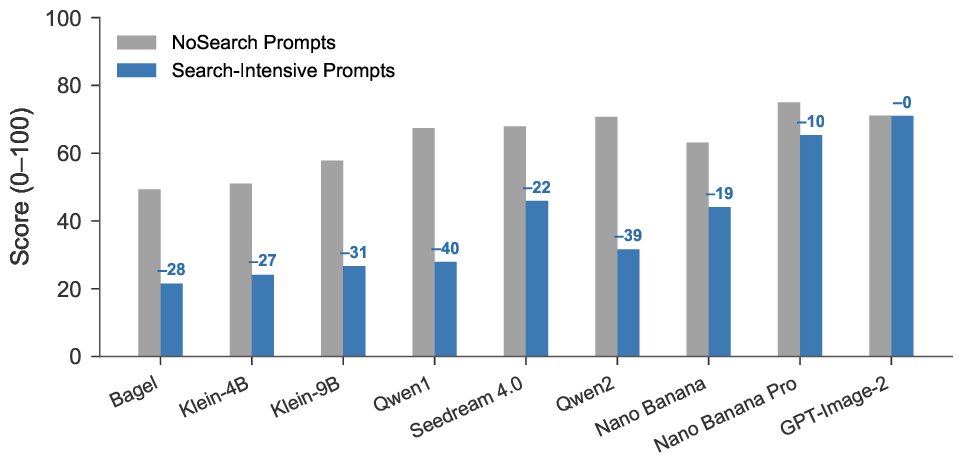
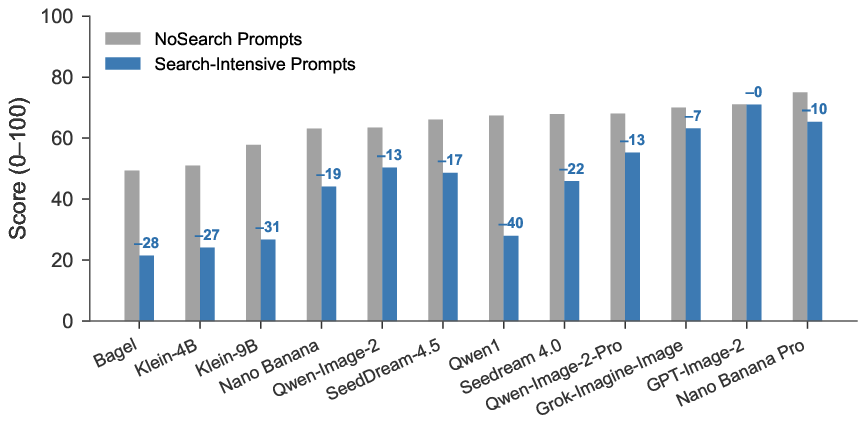
Update benchmark tables and figures

diff --git a/index.html b/index.html
@@ -378,8 +378,13 @@ body.modal-open{overflow:hidden}
   <p>To surface it, we built <strong>SearchGen-Bench</strong>: 751 test prompts scored by a 9-component judge on a 0–100 scale, with separate dimensions for <span class="em">knowledge</span> and for <span class="em">rendering</span>. The split is the whole point. When Flux.2-Klein-9B scores 24.2 on knowledge checklists but stays high on image quality, the diagnosis is unambiguous — it can draw, it just doesn't know.</p>
 
   <figure class="fig">
-    <img src="assets/figures/b1.png" alt="Per-generator quality on NoSearch vs Search-Intensive strata across nine generators.">
+    <img src="assets/figures/b1.png" alt="Per-generator quality on NoSearch vs Search-Intensive strata across twelve generators.">
     <figcaption><b>Generators score well on prompts they can answer from memory (gray).</b> On prompts that require external knowledge (orange), every open generator collapses — up to a 40-point drop — while commercial systems with built-in search hold. The bottleneck is missing knowledge, not rendering skill.</figcaption>
+  </figure>
+
+  <figure class="fig">
+    <img src="assets/figures/searchgenbench_arena_style.png" alt="Overall SearchGen-Bench ranking of twelve image generators on the full 751-prompt evaluation.">
+    <figcaption><b>Overall SearchGen-Bench ranking.</b> GPT-Image-2 leads the full 751-prompt evaluation, followed by Nano Banana Pro and Grok-Imagine-Image. Scores use the canonical 10-component physical-plausibility judge.</figcaption>
   </figure>
 
   <div class="benchmark-head">
@@ -405,25 +410,30 @@ body.modal-open{overflow:hidden}
       </thead>
       <tbody>
         <tr class="stratum memory"><th colspan="11" scope="rowgroup">NoSearch <span class="count">parametric knowledge is sufficient</span></th></tr>
-        <tr><td class="model">Bagel</td><td class="overall">49.3</td><td>52.3</td><td>49.1</td><td>39.2</td><td>58.0</td><td>18.4</td><td>48.3</td><td>65.3</td><td>60.4</td><td>34.8</td></tr>
-        <tr><td class="model">Flux.2-Klein-4B</td><td class="overall">51.0</td><td>54.7</td><td>51.8</td><td>39.3</td><td>61.3</td><td>13.2</td><td>49.5</td><td>67.2</td><td>63.5</td><td>32.6</td></tr>
-        <tr><td class="model">Flux.2-Klein-9B</td><td class="overall">57.8</td><td>63.8</td><td>59.8</td><td>51.3</td><td>63.8</td><td>31.3</td><td>52.5</td><td>72.3</td><td>66.7</td><td>43.7</td></tr>
+        <tr><td class="model">Bagel</td><td class="overall">14.0</td><td>14.3</td><td>13.2</td><td>10.7</td><td>16.5</td><td>1.0</td><td>14.0</td><td>19.3</td><td>17.9</td><td>9.4</td></tr>
+        <tr><td class="model">Flux.2-Klein-9B</td><td class="overall">42.1</td><td>47.2</td><td>43.2</td><td>37.2</td><td>46.7</td><td>16.0</td><td>38.3</td><td>52.3</td><td>48.5</td><td>29.8</td></tr>
         <tr><td class="model">Qwen-Image</td><td class="overall">67.4</td><td>74.8</td><td>70.8</td><td>62.8</td><td>68.3</td><td>63.0</td><td>61.0</td><td>76.8</td><td>73.8</td><td>56.7</td></tr>
-        <tr><td class="model">Qwen-Image-2</td><td class="overall">70.7</td><td>78.7</td><td>73.8</td><td>68.4</td><td>70.2</td><td>71.7</td><td>60.8</td><td>80.3</td><td>75.6</td><td>60.0</td></tr>
+        <tr><td class="model">Qwen-Image-2</td><td class="overall">63.4</td><td>75.4</td><td>73.2</td><td>66.3</td><td>69.3</td><td>17.5</td><td>61.2</td><td>80.8</td><td>72.0</td><td>59.4</td></tr>
+        <tr><td class="model">Qwen-Image-2-Pro</td><td class="overall">68.0</td><td>75.5</td><td>69.9</td><td>63.2</td><td>70.0</td><td>76.9</td><td>58.5</td><td>77.2</td><td>71.5</td><td>60.1</td></tr>
         <tr><td class="model">SeedDream-4.0</td><td class="overall">67.9</td><td>74.9</td><td>70.6</td><td>61.7</td><td>69.5</td><td>71.1</td><td>59.7</td><td>80.3</td><td>73.9</td><td>56.7</td></tr>
+        <tr><td class="model">SeedDream-4.5</td><td class="overall">66.1</td><td>75.9</td><td>71.0</td><td>64.5</td><td>66.2</td><td>68.0</td><td>52.5</td><td>76.0</td><td>71.4</td><td>55.8</td></tr>
         <tr><td class="model">Nano Banana</td><td class="overall">63.1</td><td>71.1</td><td>67.5</td><td>59.7</td><td>66.3</td><td>42.8</td><td>56.5</td><td>76.3</td><td>68.5</td><td>53.8</td></tr>
         <tr><td class="model">Nano Banana Pro</td><td class="overall">75.0</td><td>82.8</td><td>78.1</td><td>72.8</td><td>71.5</td><td>85.9</td><td>65.0</td><td>83.3</td><td>78.2</td><td>67.8</td></tr>
+        <tr><td class="model">Grok-Imagine-Image</td><td class="overall">70.0</td><td>78.7</td><td>74.2</td><td>69.2</td><td>69.1</td><td>71.2</td><td>59.8</td><td>78.5</td><td>70.9</td><td>61.9</td></tr>
         <tr><td class="model">GPT-Image-2</td><td class="overall">71.1</td><td>78.6</td><td>75.6</td><td>70.8</td><td>69.0</td><td>67.7</td><td>60.8</td><td>77.7</td><td>73.9</td><td>64.3</td></tr>
         <tr class="stratum search"><th colspan="11" scope="rowgroup">Search-Intensive <span class="count">external knowledge is required</span></th></tr>
-        <tr><td class="model">Bagel</td><td class="overall">21.5</td><td>18.2</td><td>17.6</td><td>13.3</td><td>30.5</td><td>2.5</td><td>29.3</td><td>33.6</td><td>36.8</td><td>13.5</td></tr>
-        <tr><td class="model">Flux.2-Klein-4B</td><td class="overall">24.1</td><td>19.8</td><td>18.4</td><td>12.4</td><td>37.2</td><td>4.2</td><td>33.6</td><td>39.3</td><td>46.2</td><td>11.9</td></tr>
-        <tr><td class="model">Flux.2-Klein-9B</td><td class="overall">26.7</td><td>24.2</td><td>23.1</td><td>17.2</td><td>36.8</td><td>7.2</td><td>32.9</td><td>40.4</td><td>48.6</td><td>16.9</td></tr>
+        <tr><td class="model">Bagel</td><td class="overall">18.2</td><td>14.8</td><td>14.4</td><td>10.7</td><td>26.6</td><td>1.8</td><td>26.2</td><td>29.3</td><td>32.9</td><td>11.0</td></tr>
+        <tr><td class="model">Flux.2-Klein-4B</td><td class="overall">21.0</td><td>16.6</td><td>15.6</td><td>10.1</td><td>33.2</td><td>3.6</td><td>30.4</td><td>34.8</td><td>42.1</td><td>9.8</td></tr>
+        <tr><td class="model">Flux.2-Klein-9B</td><td class="overall">23.0</td><td>20.1</td><td>19.3</td><td>13.9</td><td>32.6</td><td>6.1</td><td>29.5</td><td>35.9</td><td>43.9</td><td>13.6</td></tr>
         <tr><td class="model">Qwen-Image</td><td class="overall">27.9</td><td>24.8</td><td>24.3</td><td>18.6</td><td>40.1</td><td>8.7</td><td>31.6</td><td>42.8</td><td>44.6</td><td>17.7</td></tr>
-        <tr><td class="model">Qwen-Image-2</td><td class="overall">31.6</td><td>28.5</td><td>27.1</td><td>22.1</td><td>42.2</td><td>12.7</td><td>36.3</td><td>45.5</td><td>48.2</td><td>21.0</td></tr>
+        <tr><td class="model">Qwen-Image-2</td><td class="overall">50.3</td><td>49.6</td><td>48.7</td><td>44.4</td><td>62.8</td><td>36.0</td><td>53.1</td><td>66.1</td><td>67.1</td><td>40.3</td></tr>
+        <tr><td class="model">Qwen-Image-2-Pro</td><td class="overall">55.2</td><td>53.1</td><td>51.8</td><td>47.9</td><td>66.4</td><td>55.5</td><td>54.8</td><td>70.1</td><td>71.8</td><td>43.8</td></tr>
         <tr><td class="model">Imagen3-Fast</td><td class="overall">14.1</td><td>9.7</td><td>10.0</td><td>6.9</td><td>22.2</td><td>1.4</td><td>21.4</td><td>23.2</td><td>23.7</td><td>7.0</td></tr>
         <tr><td class="model">SeedDream-4.0</td><td class="overall">45.9</td><td>44.2</td><td>43.6</td><td>38.5</td><td>57.0</td><td>35.9</td><td>47.1</td><td>58.7</td><td>64.0</td><td>35.1</td></tr>
+        <tr><td class="model">SeedDream-4.5</td><td class="overall">48.6</td><td>48.3</td><td>47.0</td><td>43.1</td><td>58.7</td><td>47.5</td><td>45.6</td><td>61.1</td><td>62.6</td><td>37.1</td></tr>
         <tr><td class="model">Nano Banana</td><td class="overall">44.1</td><td>41.0</td><td>40.4</td><td>36.0</td><td>57.1</td><td>28.0</td><td>47.4</td><td>61.5</td><td>65.5</td><td>33.2</td></tr>
         <tr><td class="model">Nano Banana Pro</td><td class="overall">65.3</td><td>64.4</td><td>63.1</td><td>60.7</td><td>71.4</td><td>65.0</td><td>62.0</td><td>75.9</td><td>78.5</td><td>58.3</td></tr>
+        <tr><td class="model">Grok-Imagine-Image</td><td class="overall">63.2</td><td>64.1</td><td>62.5</td><td>60.8</td><td>68.6</td><td>62.8</td><td>59.1</td><td>74.2</td><td>73.6</td><td>58.3</td></tr>
         <tr><td class="model">GPT-Image-2</td><td class="overall">71.0</td><td>71.2</td><td>70.1</td><td>69.2</td><td>75.1</td><td>75.9</td><td>64.7</td><td>80.4</td><td>77.3</td><td>66.0</td></tr>
       </tbody>
     </table>
@@ -445,6 +455,25 @@ body.modal-open{overflow:hidden}
   </div>
 
   <p>Search everything, blindly, and every generator gets <span class="em">worse</span> on prompts that never needed help. Qwen-Image-2 drops from <strong>70.7 to 60.4</strong> on the no-search stratum — a <strong>14.6% relative loss</strong> on prompts it already aced.</p>
+
+  <div class="tbl-wrap">
+    <table class="results">
+      <thead>
+        <tr><th class="cfg">Need Search?</th><th class="cfg">Generator</th><th>n</th><th>NoSearch</th><th>Reasoned</th><th>Blind</th></tr>
+      </thead>
+      <tbody>
+        <tr><td class="cfg" rowspan="3"><b>NoSearch</b></td><td class="cfg"><b>Qwen2</b></td><td>100</td><td>70.7</td><td>76.5</td><td>60.4</td></tr>
+        <tr><td class="cfg">Qwen1</td><td>99</td><td>67.5</td><td>75.0</td><td>59.5</td></tr>
+        <tr><td class="cfg">Klein-9B</td><td>58</td><td>57.9</td><td>66.4</td><td>52.3</td></tr>
+        <tr><td class="cfg" rowspan="3"><b>VisualSearch</b></td><td class="cfg"><b>Qwen2</b></td><td>384</td><td>37.2</td><td>49.1</td><td>45.3</td></tr>
+        <tr><td class="cfg">Qwen1</td><td>384</td><td>32.8</td><td>44.4</td><td>39.7</td></tr>
+        <tr><td class="cfg">Klein-9B</td><td>338</td><td>29.6</td><td>39.4</td><td>36.0</td></tr>
+        <tr><td class="cfg" rowspan="3"><b>TextualSearch</b></td><td class="cfg"><b>Qwen2</b></td><td>263</td><td>22.9</td><td>34.1</td><td>32.1</td></tr>
+        <tr><td class="cfg">Qwen1</td><td>263</td><td>20.5</td><td>28.5</td><td>25.3</td></tr>
+        <tr><td class="cfg">Klein-9B</td><td>264</td><td>18.9</td><td>26.6</td><td>24.0</td></tr>
+      </tbody>
+    </table>
+  </div>
   <p>Two distinct failures explain it. <strong>Concept corruption</strong>: search fires on something the model already knew, and the retrieved reference overrides correct internal knowledge — a <span class="em">gating</span> failure, searching when it shouldn't. <strong>Copy effect</strong>: a reference carries so much detail that the generator copies it wholesale instead of borrowing the one missing fact — a <span class="em">filtering</span> failure, keeping too much.</p>
 
   <div class="card-line o">The cure and the disease depend entirely on the patient. Search helps only when the generator is actually missing something.</div>
@@ -565,14 +594,14 @@ body.modal-open{overflow:hidden}
   <div class="tbl-wrap">
     <table class="results">
       <thead>
-        <tr><th class="cfg">Phase</th><th class="cfg">Config</th><th>NoSearch</th><th>Set I</th><th>Set II</th><th>Set III</th><th>Overall</th></tr>
+        <tr><th class="cfg">Phase</th><th class="cfg">Config</th><th>n</th><th>NoSearch</th><th>Easy</th><th>Medium</th><th>Hard</th><th>Overall</th></tr>
       </thead>
       <tbody>
-        <tr><td class="phase-lbl">Phase 0</td><td class="cfg">Gen-Agnostic (SFT-8B) + Klein-4B</td><td>54.6</td><td>28.9</td><td>29.2</td><td>21.2</td><td class="overall">26.4</td></tr>
-        <tr><td class="phase-lbl">Phase 1</td><td class="cfg">Gen-Agnostic (SFT-8B) + Klein-4B-DPO</td><td>54.0</td><td>31.8</td><td>31.1</td><td>24.7</td><td class="overall">29.2</td></tr>
-        <tr class="head-row"><td class="phase-lbl"><b>Phase 2</b></td><td class="cfg">Gen-Adaptive (RFT-8B) + Klein-4B-DPO</td><td>56.9</td><td>34.1</td><td>33.6</td><td>27.4</td><td class="overall"><span class="big">31.8</span></td></tr>
-        <tr class="ref"><td class="phase-lbl">ref</td><td class="cfg">Oracle (frontier API) + Klein-4B-DPO</td><td>55.7</td><td>33.7</td><td>33.9</td><td>26.0</td><td class="overall">31.2</td></tr>
-        <tr class="ref"><td class="phase-lbl">ref</td><td class="cfg">No-Search + Klein-4B-DPO</td><td>49.9</td><td>28.2</td><td>26.3</td><td>20.6</td><td class="overall">25.0</td></tr>
+        <tr><td class="phase-lbl">Phase 0</td><td class="cfg">Gen-Agnostic (SFT-8B) + Klein-4B</td><td>602</td><td>54.6</td><td>28.9</td><td>29.2</td><td>21.2</td><td class="overall">26.4</td></tr>
+        <tr><td class="phase-lbl">Phase 1</td><td class="cfg">Gen-Agnostic (SFT-8B) + Klein-4B-DPO-v2</td><td>321</td><td>54.0</td><td>31.8</td><td>31.1</td><td>24.7</td><td class="overall">29.2</td></tr>
+        <tr class="head-row"><td class="phase-lbl"><b>Phase 2</b></td><td class="cfg">Gen-Adaptive (RFT-8B) + Klein-4B-DPO-v2</td><td>321</td><td>56.9</td><td>34.1</td><td>33.6</td><td>27.4</td><td class="overall"><span class="big">31.8</span></td></tr>
+        <tr class="ref"><td class="phase-lbl">ref</td><td class="cfg">Oracle (frontier API) + Klein-4B-DPO-v2</td><td>750</td><td>55.7</td><td>33.7</td><td>33.9</td><td>26.0</td><td class="overall">31.2</td></tr>
+        <tr class="ref"><td class="phase-lbl">ref</td><td class="cfg">No-Search + Klein-4B-DPO-v2</td><td>751</td><td>49.9</td><td>28.2</td><td>26.3</td><td>20.6</td><td class="overall">25.0</td></tr>
       </tbody>
     </table>
   </div>